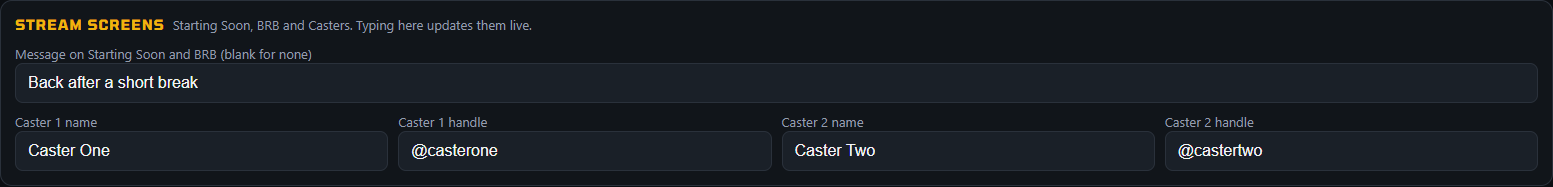
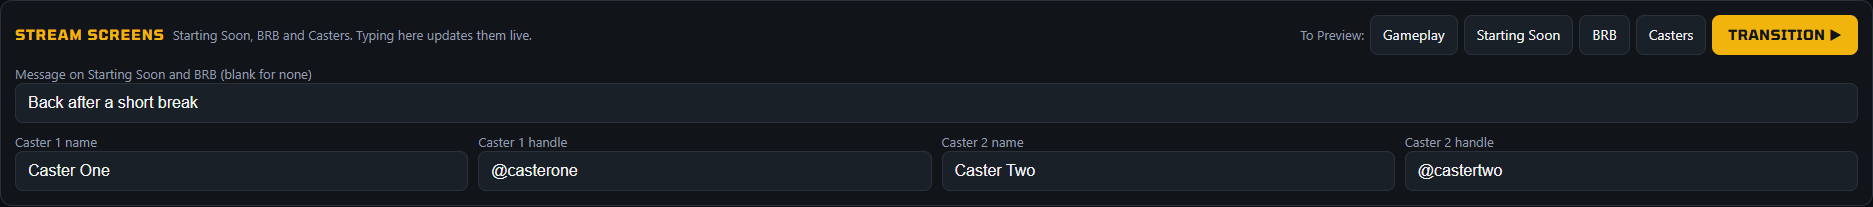
Scene changes go to Preview by default; Transition button on the dashboard
Scene buttons and the automatic switching now load the scene into Preview (OBS Studio
Mode, vMix Preview) and the operator takes it live with the transition, from OBS/vMix
or the panel's new Transition button. Settings, "Scene changes from the recorder go
to", keeps the old cut-to-Program behaviour as an option. With Studio Mode off, OBS has
no Preview, so Preview mode says so instead of cutting live.

Tested against OBS 32 in Studio Mode: buttons load Preview with Program untouched,
Transition takes it live, Program mode still cuts.

diff --git a/server.js b/server.js
@@ -81,7 +81,9 @@ const DEFAULT_CONFIG = {
   // Stream screens (Starting Soon, BRB, Casters) and scene switching. With autoSwitch on, Start Recording
   // cuts to `gameplay` before recording and End & Save cuts to `after` once the recording has stopped,
   // so a between-sets screen never ends up in a VOD. Names are OBS scenes or vMix inputs.
-  scenes: { autoSwitch: false, gameplay: '', after: '' },
+  // `to`: 'preview' loads the scene into Preview (Studio Mode) and the operator takes it live with the
+  // transition; 'program' cuts Program straight away.
+  scenes: { autoSwitch: false, gameplay: '', after: '', to: 'preview' },
   // Stations that only ever record Ultimate hide the other games everywhere (picker, suffixes, import).
   smashOnly: false,
 };
@@ -529,6 +531,18 @@ class ObsClient {
     try { ms = Number((await this.request('GetCurrentSceneTransition')).transitionDuration) || 0; } catch { ms = 0; }
     await this.request('SetCurrentProgramScene', { sceneName: name });
     await sleep(Math.min(3000, ms) + 150);
+  }
+  // Studio Mode: load a scene into Preview and leave Program alone; the operator takes it live.
+  async setPreviewScene(name) {
+    const { studioModeEnabled } = await this.request('GetStudioModeEnabled');
+    if (!studioModeEnabled) throw new Error('Studio Mode is off in OBS, so there is no Preview. Turn it on (Studio Mode button under Controls), or set scene changes to cut straight to Program in Settings');
+    await this.request('SetCurrentPreviewScene', { sceneName: name });
+  }
+  // Preview to Program with OBS's current transition (the Transition button in Studio Mode).
+  async transition() {
+    const { studioModeEnabled } = await this.request('GetStudioModeEnabled');
+    if (!studioModeEnabled) throw new Error('Studio Mode is off in OBS, so there is nothing in Preview to take live');
+    await this.request('TriggerStudioModeTransition');
   }
 }
 
@@ -1292,7 +1306,7 @@ function updateConfig(body) {
   };
   next.smashOnly = !!next.smashOnly;
   const sc = next.scenes || {};
-  next.scenes = { autoSwitch: !!sc.autoSwitch, gameplay: String(sc.gameplay || '').trim(), after: String(sc.after || '').trim() };
+  next.scenes = { autoSwitch: !!sc.autoSwitch, gameplay: String(sc.gameplay || '').trim(), after: String(sc.after || '').trim(), to: sc.to === 'program' ? 'program' : 'preview' };
   const obsChanged = JSON.stringify(next.obs) !== JSON.stringify(cfg.obs);
   const vmixChanged = ['host', 'port', 'user', 'password'].some((k) => next.vmix[k] !== cfg.vmix[k]);
   // Turning Smash-only on drops any SF6/Tekken bracket on the next sync, so sync right away.
@@ -1680,9 +1694,19 @@ async function autoCut(which) {
   try {
     if (which === 'gameplay' && !target && sw === obs) target = gameplaySceneName((await obs.request('GetSceneList')).scenes.map((s) => s.sceneName));
     if (!target) return;
-    await sw.setProgramScene(target);
-    log(`Switched ${swName()} to "${target}"`);
+    await sendScene(target);
   } catch (e) { log(`Could not switch ${swName()} to "${target}": ${e.message}`); }
+}
+// A scene change from the recorder: into Preview (the default; the operator takes it live) or straight to Program.
+const scenesTo = () => (cfg.scenes && cfg.scenes.to === 'program' ? 'program' : 'preview');
+async function sendScene(name) {
+  if (scenesTo() === 'program') {
+    await sw.setProgramScene(name);
+    log(`Switched ${swName()} to "${name}"`);
+  } else {
+    await sw.setPreviewScene(name);
+    log(`"${name}" is in ${swName()}'s Preview, ready for the transition`);
+  }
 }
 // OBS reports the recordings folder while connected, vMix while it records; keep the last one so tools
 // work with the app closed.
@@ -1775,7 +1799,16 @@ async function handleDetectApi(route, req, res, url) {
       const body = await readBody(req);
       try {
         if (sw.status !== 'connected') throw new Error(`${swName()} is not connected`);
-        await sw.setProgramScene(String(body.scene || ''));
+        await sendScene(String(body.scene || ''));
+        sendJson(res, 200, { ok: true, to: scenesTo() });
+      } catch (e) { sendJson(res, 400, { error: e.message }); }
+      return true;
+    }
+    case 'POST /api/scenes/transition': {
+      try {
+        if (sw.status !== 'connected') throw new Error(`${swName()} is not connected`);
+        await sw.transition();
+        log(`Transition: ${swName()} Preview taken to Program`);
         sendJson(res, 200, { ok: true });
       } catch (e) { sendJson(res, 400, { error: e.message }); }
       return true;

diff --git a/public/app.js b/public/app.js
@@ -163,11 +163,15 @@
     const c = S.config.scenes || {};
     const gameplay = c.gameplay || (S.config.overlay && S.config.overlay.scene) || '';
     const list = [gameplay ? ['Gameplay', gameplay] : null, ...((S.screenScenes || []).map((n) => [n.replace(/^MM /, ''), n]))].filter(Boolean);
-    const key = [S.sw.connected, ...list.flat()].join('|');
+    const preview = c.to !== 'program';
+    const key = [S.sw.connected, preview, ...list.flat()].join('|');
     if (key === sceneKey) return;
     sceneKey = key;
+    // Preview mode: the scene buttons load Preview and Transition takes it live; Program mode cuts at once.
     $('#scene-buttons').innerHTML = S.sw.connected
-      ? list.map(([label, name]) => `<button class="small" type="button" data-scene="${esc(name)}" title="Cut ${esc(S.sw.name)} to &quot;${esc(name)}&quot;">${esc(label)}</button>`).join('')
+      ? (preview ? '<span class="muted" style="align-self:center">To Preview:</span>' : '')
+        + list.map(([label, name]) => `<button class="small" type="button" data-scene="${esc(name)}" title="${preview ? 'Load' : 'Cut'} &quot;${esc(name)}&quot; ${preview ? `into ${esc(S.sw.name)}'s Preview` : `to ${esc(S.sw.name)}'s Program`}">${esc(label)}</button>`).join('')
+        + (preview ? '<button class="small primary" type="button" data-transition title="Take Preview live with the current transition">Transition ▶</button>' : '')
       : '';
   }
   let scrTimer = null;
@@ -185,9 +189,15 @@
   }
   for (const [sel] of SCR_FIELDS) $(sel).addEventListener('input', sendScreens);
   $('#scene-buttons').addEventListener('click', async (ev) => {
+    if (ev.target.closest('[data-transition]')) {
+      if (S.rec && S.rec.active && !confirm('A set is recording. Taking Preview live puts it in the VOD. Transition anyway?')) return;
+      try { await api('POST', '/api/scenes/transition'); } catch (e) { toast(e.message, { error: true }); }
+      return;
+    }
     const b = ev.target.closest('[data-scene]');
     if (!b) return;
-    if (S.rec && S.rec.active && !/gameplay/i.test(b.textContent) && !confirm(`A set is recording. Cutting to "${b.dataset.scene}" puts it in the VOD. Cut anyway?`)) return;
+    const program = (S.config.scenes || {}).to === 'program';
+    if (program && S.rec && S.rec.active && !/gameplay/i.test(b.textContent) && !confirm(`A set is recording. Cutting to "${b.dataset.scene}" puts it in the VOD. Cut anyway?`)) return;
     try { await api('POST', '/api/scenes/switch', { scene: b.dataset.scene }); } catch (e) { toast(e.message, { error: true }); }
   });
   // ---------- branding (picked in Settings; /theme.js applies it before the first paint) ----------
@@ -678,6 +688,7 @@
     set('detect.videosFolder', c.detect ? c.detect.videosFolder : '');
     loadSources(c.detect ? c.detect.source : '');
     set('scenes.autoSwitch', c.scenes && c.scenes.autoSwitch);
+    set('scenes.to', c.scenes && c.scenes.to === 'program' ? 'program' : 'preview');
     loadSceneChoices(c.scenes || {});
     set('overlay.center', c.overlay ? c.overlay.center : 'round');
     set('overlay.scores', !c.overlay || c.overlay.scores !== false);

diff --git a/public/index.html b/public/index.html
@@ -329,7 +329,16 @@
           <span id="scenes-status" class="muted"></span>
         </div>
         <div class="muted" style="margin-top:6px"><span class="sw-obs">Creates the scenes "MM Starting Soon", "MM BRB" and "MM Casters". Casters gets your gameplay capture and, when there is a second camera input, the camera, each placed in its window; otherwise drag the camera into the right-hand window yourself.</span><span class="sw-vmix">Adds "MM Starting Soon", "MM BRB" and "MM Casters" as Browser inputs. In vMix, add your gameplay and camera to MM Casters as layers (Input settings, Layers); the README has the positions.</span> Pages: <a href="/slate?scene=starting" target="_blank">Starting Soon</a>, <a href="/slate?scene=brb" target="_blank">BRB</a>, <a href="/casters" target="_blank">Casters</a>.</div>
-        <label class="check" style="margin-top:10px"><input type="checkbox" name="scenes.autoSwitch"> Switch scenes for me: Start Recording cuts to the gameplay scene first, End &amp; Save stops the recording and then cuts to the between-sets scene</label>
+        <div class="grid2" style="margin-top:10px">
+          <label>Scene changes from the recorder go to
+            <select name="scenes.to">
+              <option value="preview">Preview: I take them live with the transition (Studio Mode)</option>
+              <option value="program">Program: cut straight away</option>
+            </select>
+          </label>
+        </div>
+        <label class="check" style="margin-top:10px"><input type="checkbox" name="scenes.autoSwitch"> Switch scenes for me: Start Recording sends the gameplay scene, End &amp; Save stops the recording and then sends the between-sets scene</label>
+        <div class="muted">With Preview, a recording starts on whatever is live, so take Gameplay live before pressing Start Recording to keep the between-sets screen out of the VOD.</div>
         <div class="grid2">
           <label>Gameplay <span class="sw-obs">scene</span><span class="sw-vmix">input</span> <select name="scenes.gameplay"></select></label>
           <label>Between-sets <span class="sw-obs">scene</span><span class="sw-vmix">input</span> <select name="scenes.after"></select></label>

diff --git a/lib/vmix.js b/lib/vmix.js
@@ -252,6 +252,15 @@ class VmixClient {
     await this.call('CutDirect', { Input: input.key });
     await sleep(150);
   }
+  // Load an input into Preview; the operator takes it live.
+  async setPreviewScene(title) {
+    await this.refresh();
+    const input = this.findInput(title);
+    if (!input) throw new Error(`vMix has no input called "${title}"`);
+    await this.call('PreviewInput', { Input: input.key });
+  }
+  // Preview to Program with vMix's first transition button (Transition 1).
+  async transition() { await this.call('Transition1'); }
   // A full-screen Browser input (the Starting Soon, BRB and Casters screens): added once, re-pointed after.
   async installBrowserInput({ title, url }) {
     await this.refresh();

diff --git a/README.md b/README.md
@@ -240,7 +240,13 @@ Three full-screen 1920x1080 scenes in the Metroplex Major look:
 
 The **Stream screens** panel under the current set holds the message and the two caster cards; what is typed there
 shows on the screens straight away. A card with no name is not drawn. When the production software is connected,
-the panel also has a button per scene (Gameplay, Starting Soon, BRB, Casters) to cut to it.
+the panel also has a button per scene (Gameplay, Starting Soon, BRB, Casters).
+
+**Preview or Program** (Settings, *Scene changes from the recorder go to*): by default every scene change from the
+recorder lands in **Preview** (OBS Studio Mode, vMix Preview) and nothing goes live until you take it with the
+transition, from OBS or vMix as usual or with the panel's **Transition ▶** button. Pick *Program* to have the
+buttons and the automatic switching cut straight away instead. With Studio Mode off, OBS has no Preview, so Preview
+mode reports that rather than cutting live.
 
 **Setup:** Settings, *Stream screens and scene switching*, **Add Metroplex Major scenes**.
 
@@ -253,10 +259,12 @@ the panel also has a button per scene (Gameplay, Starting Soon, BRB, Casters) to
   settings, **Layers**, and add the gameplay input (position 60, 168, size 1280x720) and the camera (1380, 168,
   480x270) as layers underneath the frame. This part is not automated for vMix.
 
-**Switch scenes for me** (off by default): Start Recording cuts Program to the gameplay scene, waits for the
-transition, then starts recording, so the VOD opens on the set. End & Save stops the recording first and then cuts
-to the between-sets scene (MM BRB unless another is picked), so a between-sets screen never ends up in a VOD. A set
-stopped from inside OBS or vMix is left alone, and a failed cut is logged without stopping the recording.
+**Switch scenes for me** (off by default): Start Recording sends the gameplay scene, End & Save stops the recording
+first and then sends the between-sets scene (MM BRB unless another is picked). In Preview mode they wait in Preview
+for your transition; a recording starts on whatever is live, so take Gameplay live before Start Recording to keep
+the between-sets screen out of the VOD. In Program mode Start Recording cuts to gameplay, waits for the transition,
+then records. A set stopped from inside OBS or vMix is left alone, and a failed switch is logged without stopping
+the recording.
 
 ## Branding and themes
 
